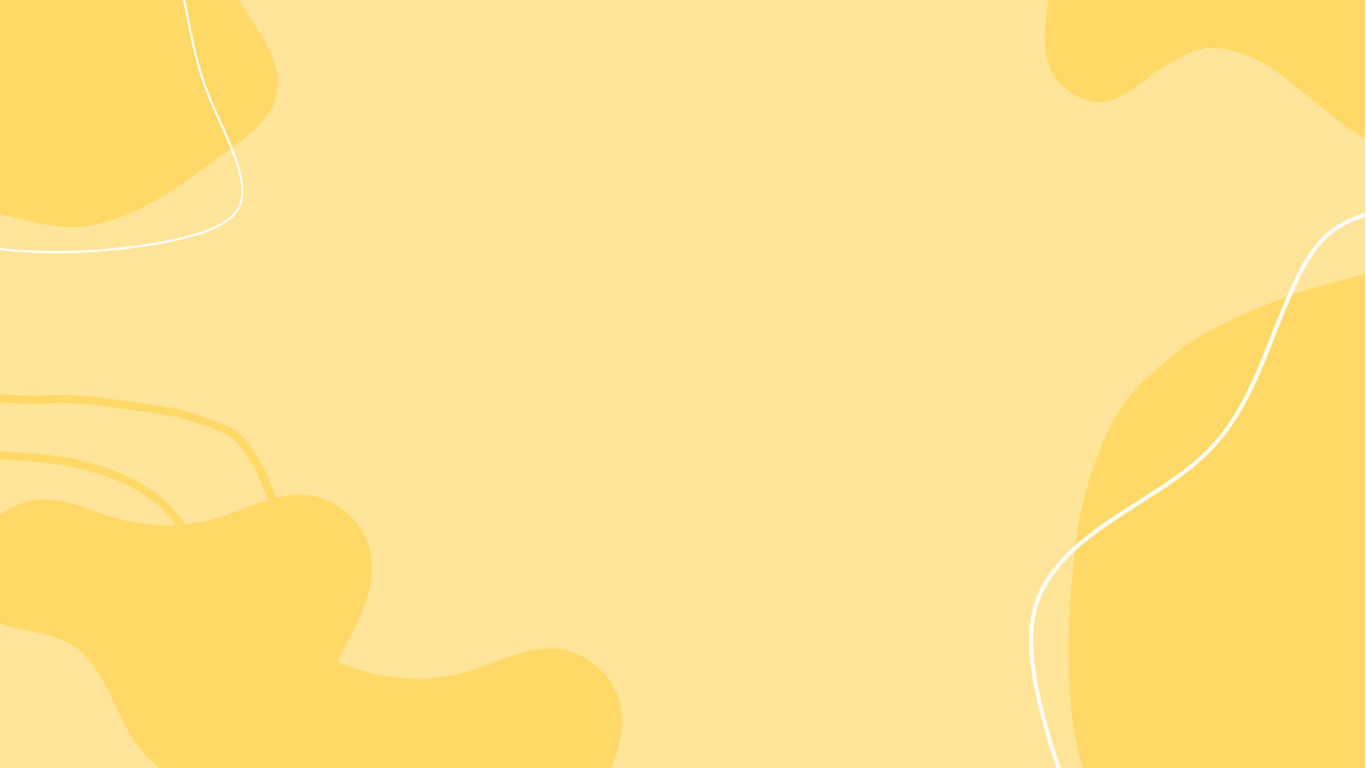
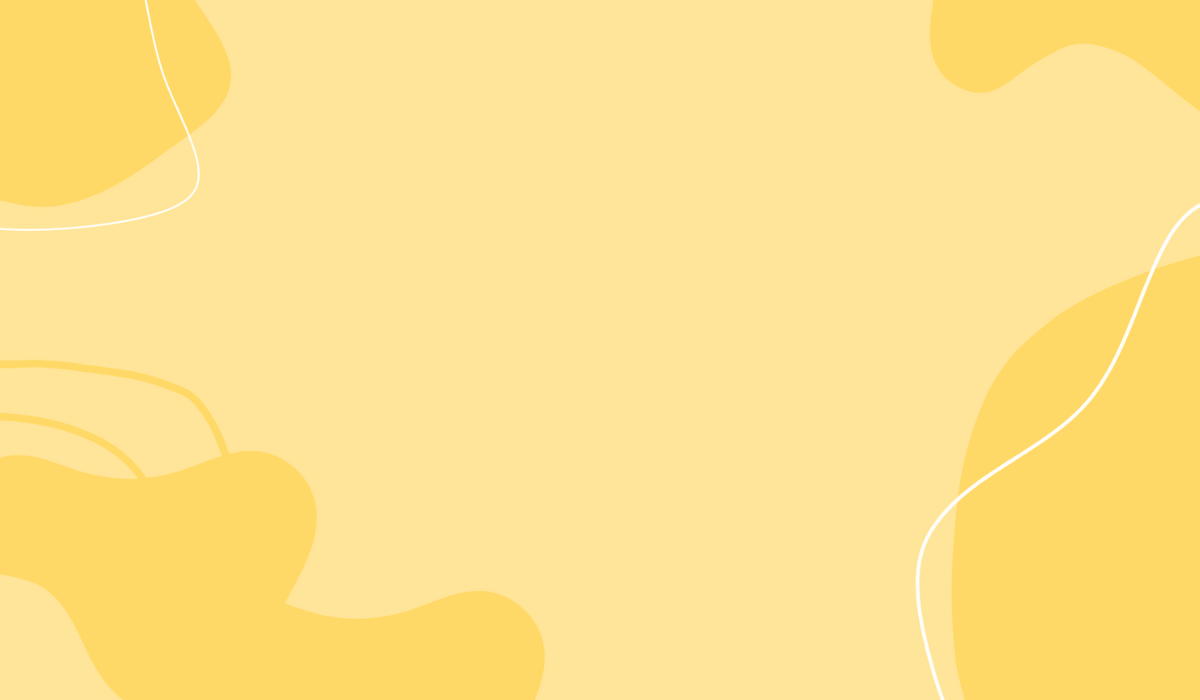
header image fix

diff --git a/style.css b/style.css
@@ -23,6 +23,10 @@ nav {
     cursor: pointer;
 }
 
+#nav li{
+    border-bottom: 3px solid #FFCC34;
+}
+
 #nav li:hover{
     border-bottom: 3px solid #111111;
 }
@@ -31,10 +35,12 @@ nav {
 
 header{
     background-image: url(/imgs/header-bgrd.png);
+    background-size: cover;
+    background-position: center;
 }
 
 h1{
-    padding-top: 220px;
+    padding-top: 180px;
     display: flex;
     justify-content: center;
     font-family: "Limelight", sans-serif;
